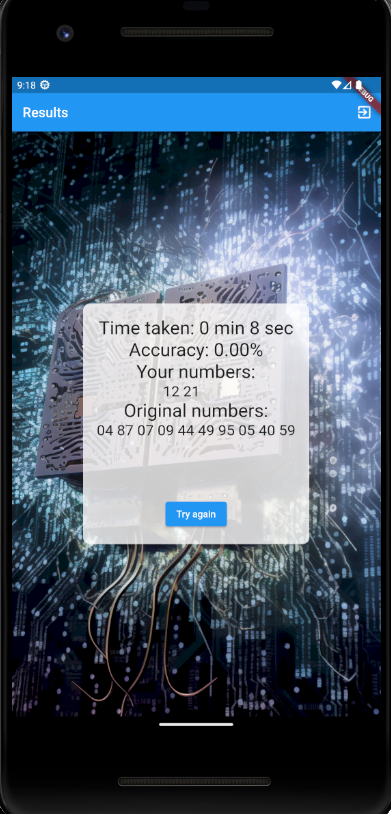
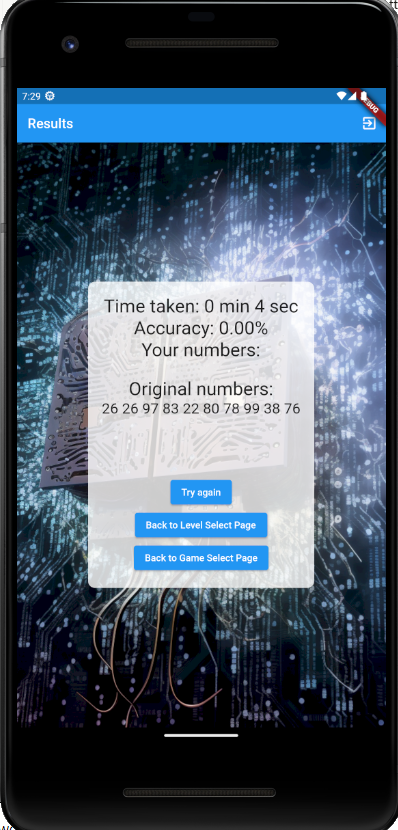
Added new game schulte Grid and update readme.

diff --git a/lib/main.dart b/lib/main.dart
@@ -68,7 +68,67 @@ class LevelData {
 }
 
 void main() {
-  runApp(const MyApp());
+  runApp(const MaterialApp(
+    home: GameSelectPage(),
+  ));
+}
+
+class GameSelectPage extends StatelessWidget {
+  const GameSelectPage({super.key});
+
+  @override
+  Widget build(BuildContext context) {
+    return Scaffold(
+      appBar: AppBar(
+        title: const Text('Select Game'),
+      ),
+      body: Container(
+        decoration: const BoxDecoration(
+          image: DecorationImage(
+            image: AssetImage("images/brain4.png"), // The background image
+            fit: BoxFit.cover,
+          ),
+        ),
+        child: Center(
+          child: Column(
+            mainAxisAlignment: MainAxisAlignment.center,
+            children: <Widget>[
+              ElevatedButton(
+                style: ElevatedButton.styleFrom(
+                  minimumSize: const Size(200, 50), // Adjust minimum size of button
+                  padding: const EdgeInsets.symmetric(horizontal: 16), // Ajdust padding of button
+                ),
+                onPressed: () {
+                  Navigator.push(
+                    context,
+                    MaterialPageRoute(builder: (context) => const SchulteGridApp()),
+                  );
+                },
+                child: const Text('Scaffold'),
+              ),
+              SizedBox(
+                height: MediaQuery.of(context).size.height * 0.05, // Or any value you want to give
+              ),
+              ElevatedButton(
+                style: ElevatedButton.styleFrom(
+                  minimumSize: const Size(200, 50), // Adjust minimum size of button
+                  padding: const EdgeInsets.symmetric(horizontal: 16), // Ajdust padding of button
+                ),
+                onPressed: () {
+                  Navigator.push(
+                    context,
+                    MaterialPageRoute(builder: (context) => const MyApp()),
+                  );
+                },
+                child: const Text('Endless Number'),
+              ),
+              // Add more game here...
+            ],
+          ),
+        ),
+      ),
+    );
+  }
 }
 
 // This is the main class of the app.
@@ -588,7 +648,16 @@ class ResultsPage extends StatelessWidget {
                             MaterialPageRoute(builder: (context) => const StartPage()),
                           );
                         },
-                        child: const Text('Back to StartPage'),
+                        child: const Text('Back to Level Select Page'),
+                      ),
+                      ElevatedButton(
+                        onPressed: () {
+                          Navigator.push(
+                            context,
+                            MaterialPageRoute(builder: (context) => const GameSelectPage()),
+                          );
+                        },
+                        child: const Text('Back to Game Select Page'),
                       ),
                     ],
                   ),
@@ -596,6 +665,182 @@ class ResultsPage extends StatelessWidget {
               ],
             ),
           ),
+        ),
+      ),
+    );
+  }
+}
+
+class SchulteGridApp extends StatelessWidget {
+  const SchulteGridApp({super.key});
+
+  @override
+  Widget build(BuildContext context) {
+    return const MaterialApp(
+      home: SchulteGrid(),
+    );
+  }
+}
+
+class SchulteGrid extends StatefulWidget {
+  const SchulteGrid({Key? key}) : super(key: key);
+
+  @override
+  // ignore: library_private_types_in_public_api
+  _SchulteGridState createState() => _SchulteGridState();
+}
+
+class _SchulteGridState extends State<SchulteGrid> {
+  List<int> numbers = [];
+  int currentNumber = 1;
+  int counter = 0;
+  int highScore = 0;
+  Stopwatch stopwatch = Stopwatch();
+  Timer? timer;
+
+  @override
+  void initState() {
+    super.initState();
+    // initialize numbers list with numbers from 1 to 25 in random order
+    numbers = List<int>.generate(25, (i) => i + 1)..shuffle();
+    getHighScore();
+    startTimer();
+  }
+
+  void startTimer() {
+    stopwatch.start();
+    timer = Timer.periodic(const Duration(seconds: 1), (timer) {
+      setState(() {});
+    });
+  }
+
+  void stopTimer() {
+    stopwatch.stop();
+    timer?.cancel();
+  }
+
+  void resetTimer() {
+    stopwatch.reset();
+    startTimer();
+  }
+
+  void getHighScore() async {
+    SharedPreferences prefs = await SharedPreferences.getInstance();
+    highScore = prefs.getInt('sh_highScore') ?? 0;
+    setState(() {});
+  }
+
+  void setHighScore() async {
+    SharedPreferences prefs = await SharedPreferences.getInstance();
+    await prefs.setInt('sh_highScore', stopwatch.elapsed.inSeconds);
+  }
+
+  void onTap(int index) {
+    if (numbers[index] == currentNumber) {
+      Vibration.vibrate();
+      setState(() {
+        numbers[index] = 0; // hidden number
+        currentNumber++;
+        if (currentNumber > 25) {
+          // reset game
+          stopTimer();
+          if (highScore == 0 || stopwatch.elapsed.inSeconds < highScore) {
+            setHighScore();
+            highScore = stopwatch.elapsed.inSeconds;
+          }
+          numbers = List<int>.generate(25, (i) => i + 1)..shuffle();
+          currentNumber = 1;
+          resetTimer();
+        }
+      });
+    }
+  }
+
+  @override
+  Widget build(BuildContext context) {
+    double fontSize = MediaQuery.of(context).size.width * 0.05;
+    double buttonWidth = MediaQuery.of(context).size.width * 0.8;
+
+    return Scaffold(
+      appBar: AppBar(
+        title: const Text('Scaffold Game'),
+      ),
+      body: Container(
+        decoration: const BoxDecoration(
+          image: DecorationImage(
+            image: AssetImage("images/brain5.png"),
+            fit: BoxFit.cover,
+          ),
+        ),
+        child: Column(
+          children: <Widget>[
+            Text(
+              'Current Number: $currentNumber',
+              style: TextStyle(fontSize: fontSize),
+            ),
+            Text(
+              'Timer: ${stopwatch.elapsed.inSeconds}秒',
+              style: TextStyle(fontSize: fontSize),
+            ),
+            Text(
+              'HighScore: $highScore秒',
+              style: TextStyle(fontSize: fontSize),
+            ),
+            Expanded(
+              child: GridView.builder(
+                padding: const EdgeInsets.all(20.0),
+                itemCount: numbers.length,
+                gridDelegate: const SliverGridDelegateWithFixedCrossAxisCount(
+                    crossAxisCount: 5, mainAxisSpacing: 10.0, crossAxisSpacing: 10.0),
+                itemBuilder: (context, index) {
+                  return InkWell(
+                    onTap: () => onTap(index),
+                    child: Container(
+                      decoration: BoxDecoration(
+                        color: Colors.white,
+                        border: Border.all(
+                          color: Colors.blue,
+                          width: 2.0,
+                        ),
+                      ),
+                      child: Center(
+                        child: numbers[index] != 0
+                            ? Text(
+                                '${numbers[index]}',
+                                style: const TextStyle(
+                                  fontSize: 24.0,
+                                  shadows: <Shadow>[
+                                    Shadow(
+                                      offset: Offset(1.5, 1.5),
+                                      blurRadius: 2.0,
+                                      color: Colors.grey,
+                                    ),
+                                  ],
+                                ),
+                              )
+                            : null, // hide number
+                      ),
+                    ),
+                  );
+                },
+              ),
+            ),
+            SizedBox(
+              width: buttonWidth,
+              child: ElevatedButton(
+                child: Text(
+                  'Back',
+                  style: TextStyle(fontSize: fontSize),
+                ),
+                onPressed: () {
+                  Navigator.push(
+                    context,
+                    MaterialPageRoute(builder: (context) => const GameSelectPage()),
+                  );
+                },
+              ),
+            ),
+          ],
         ),
       ),
     );

diff --git a/README.md b/README.md
@@ -1,5 +1,11 @@
 # ⛓ Memory Trainer
 
+![game select page](./images/Screenshot%202023-05-29%20193556.png)
+
+![Schulter Grid page](./images/Screenshot%202023-05-29%20192853.png)
+
+![select page](./images/Screenshot%202023-05-29%20193556.png)
+
 ![start page](./images/Screenshot%202023-05-28%20211820.png)
 
 ![memory page](./images/Screenshot%202023-05-28%20211838.png)
@@ -10,9 +16,13 @@
 
 ##Brain Trainer : Flutter application made by Ray Sheng
 
-## Design and Idea
+## 🧠 Design and Idea
 Develop an Android app using Flutter. This app is designed to help practice brain memory.
 
+🤔 SchulteGrid
+A concentration training exercise using the Schulte Grid, in a 5x5 square grid, shuffle the numbers 1 to 25. Then, click on the numbers in ascending order from 1 to 25 as quickly as possible with a mouse. The person who completes the task accurately in the shortest time wins.
+
+🤔 Endless Number
 The first screen is to select levels. There are 3 levels required. Only the level one button is enabled at the start, the other buttons are disabled. The subsequent levels can only be enabled after the previous level is won.
 
 The second screen is the level screen. Firstly, it randomly generates 40 two-digit numbers, each number is separated by a space. At the same time, there is a stopwatch at the top and an OK button at the bottom. Once the user presses OK, they enter the recall screen. On this screen, the user inputs the 40 numbers generated on the previous screen, and then presses OK, then enters the result screen. The program will compare whether the user has successfully memorized these numbers. The correctly remembered numbers are in blue, the wrong ones are in red, then it calculates the success rate. The success rate and the final time recorded in the stopwatch on the level screen are displayed at the bottom. If the success rate is 100%, the next level is successfully unlocked. The second level has 60 random numbers, and the third level has 80 random numbers and so on...
@@ -26,9 +36,8 @@ flutter build apk --release
 
 upload to mobile and install
 
-For help getting started with Flutter development, view the
-[online documentation](https://docs.flutter.dev/), which offers tutorials,
-samples, guidance on mobile development, and a full API reference.
+## 💁 Study and Research
+I am dedicated to the research and development of new technologies, including database, storage, AI, front-end, and back-end technologies. I am also engaged in the automatic control setup for creating intelligent homes.
 
 [![Star History Chart](https://api.star-history.com/svg?repos=netcaster1/memorytrainer&type=Timeline)](https://star-history.com/#netcaster1/memorytrainer&Date)
 
